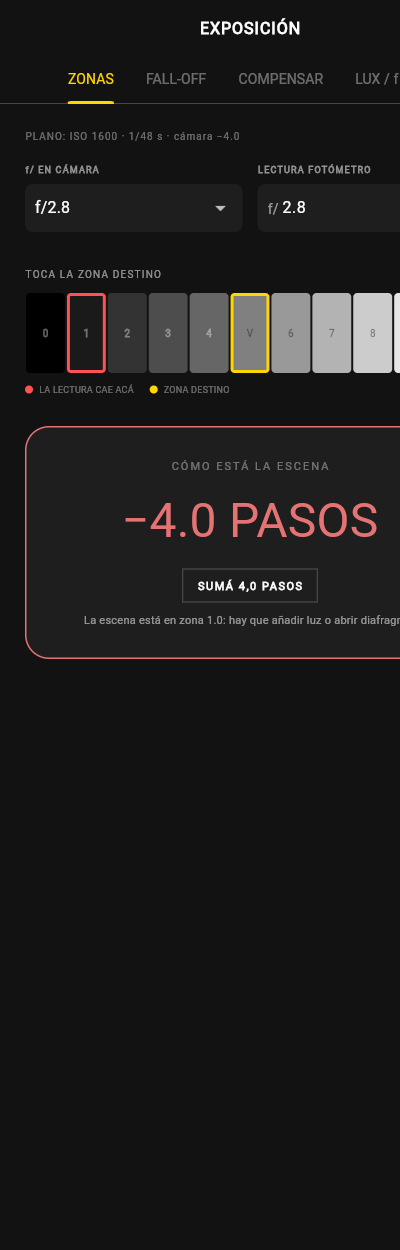
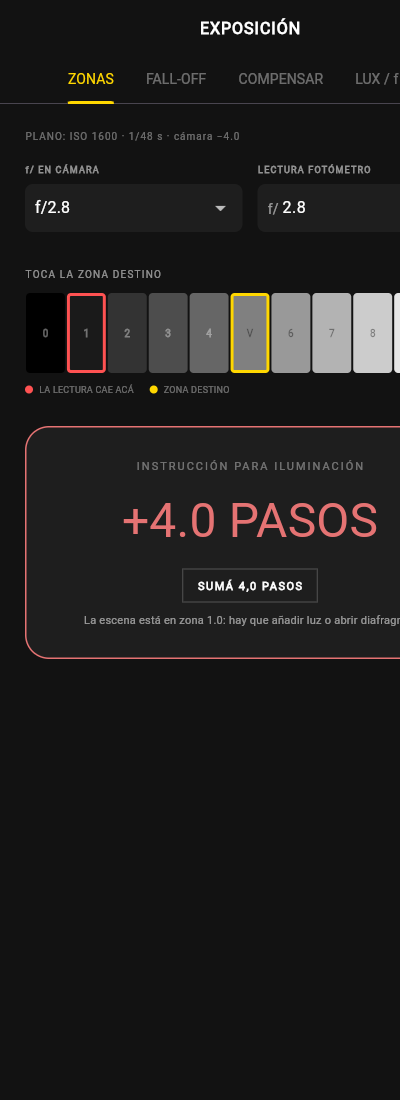
El numero vuelve a ser la accion, en las dos pantallas
- Positivo = sumar luz (rojo), negativo = quitar (ambar), igual en Zonas y Compensar
- La frase de abajo dice siempre lo mismo que el signo, sin contradecirlo
- Zonas recupera la tarjeta y el titulo que se entendian mejor
- Version 1.2.1

diff --git a/lib/presentation/exposure_screen.dart b/lib/presentation/exposure_screen.dart
@@ -157,8 +157,8 @@ class _ZoneSystemScreenState extends State<ZoneSystemScreen> {
               ),
               const SizedBox(height: 30),
               _resultCard(
-                deviation: -reading.correctionStops,
-                title: 'CÓMO ESTÁ LA ESCENA',
+                correction: reading.correctionStops,
+                title: 'INSTRUCCIÓN PARA ILUMINACIÓN',
                 subtitle: _zoneSubtitle(reading, nd),
               ),
               if (nd != null) ...[
@@ -284,7 +284,7 @@ class _ISTState extends State<InverseSquareTool> {
           ),
           const SizedBox(height: 25),
           _resultCard(
-            deviation: result.stops,
+            correction: -result.stops,
             title: 'LA LUZ CAMBIA',
             subtitle: isLoss
                 ? 'La fuente pierde ${result.stops.abs().toStringAsFixed(1)} stops al alejarse. '
@@ -536,7 +536,7 @@ class _ExposureCompensationScreenState extends State<ExposureCompensationScreen>
               _meterGelToggle(shot),
               const SizedBox(height: 30),
               _resultCard(
-                deviation: -result.stops,
+                correction: result.stops,
                 title: 'DESBALANCE',
               ),
               const SizedBox(height: 16),
@@ -1189,20 +1189,22 @@ Widget _legendDot(Color color, String label) {
 }
 
 Widget _resultCard({
-  /// Cuánto está desviada la imagen: **negativo = abajo** (falta luz),
-  /// **positivo = arriba** (sobra luz). La acción es siempre al revés.
-  required double deviation,
+  /// Cuánto hay que compensar: **positivo = sumar luz**, **negativo = quitarla**.
+  ///
+  /// El número es la acción, no el diagnóstico: si dice +4, sumás 4 pasos.
+  /// Así el signo y la frase de abajo nunca se contradicen.
+  required double correction,
   required String title,
   String? subtitle,
 }) {
-  final balanced = deviation.abs() < 0.05;
-  // Rojo cuando falta luz: es el caso que obliga a sumar unidades o potencia.
-  // Ámbar cuando sobra: se resuelve cerrando o con un filtro.
+  final balanced = correction.abs() < 0.05;
+  // Rojo cuando hay que sumar luz: es el caso que obliga a más unidades o
+  // potencia. Ámbar cuando hay que quitarla: se resuelve cerrando o con ND.
   final accent = balanced
       ? OnSetColors.ok
-      : (deviation < 0 ? OnSetColors.danger : OnSetColors.brand);
-  final amount = deviation.abs().toStringAsFixed(1).replaceAll('.', ',');
-  final action = deviation < 0 ? 'SUMÁ $amount PASOS' : 'QUITÁ $amount PASOS';
+      : (correction > 0 ? OnSetColors.danger : OnSetColors.brand);
+  final amount = correction.abs().toStringAsFixed(1).replaceAll('.', ',');
+  final action = correction > 0 ? 'SUMÁ $amount PASOS' : 'QUITÁ $amount PASOS';
 
   return Container(
     width: double.infinity,
@@ -1222,7 +1224,7 @@ Widget _resultCard({
         Text(
           balanced
               ? 'OK'
-              : '${deviation > 0 ? '+' : '−'}${deviation.abs().toStringAsFixed(1)} PASOS',
+              : '${correction > 0 ? '+' : '−'}${correction.abs().toStringAsFixed(1)} PASOS',
           style: TextStyle(fontSize: 48, fontWeight: FontWeight.w300, color: accent),
         ),
         if (!balanced) ...[
